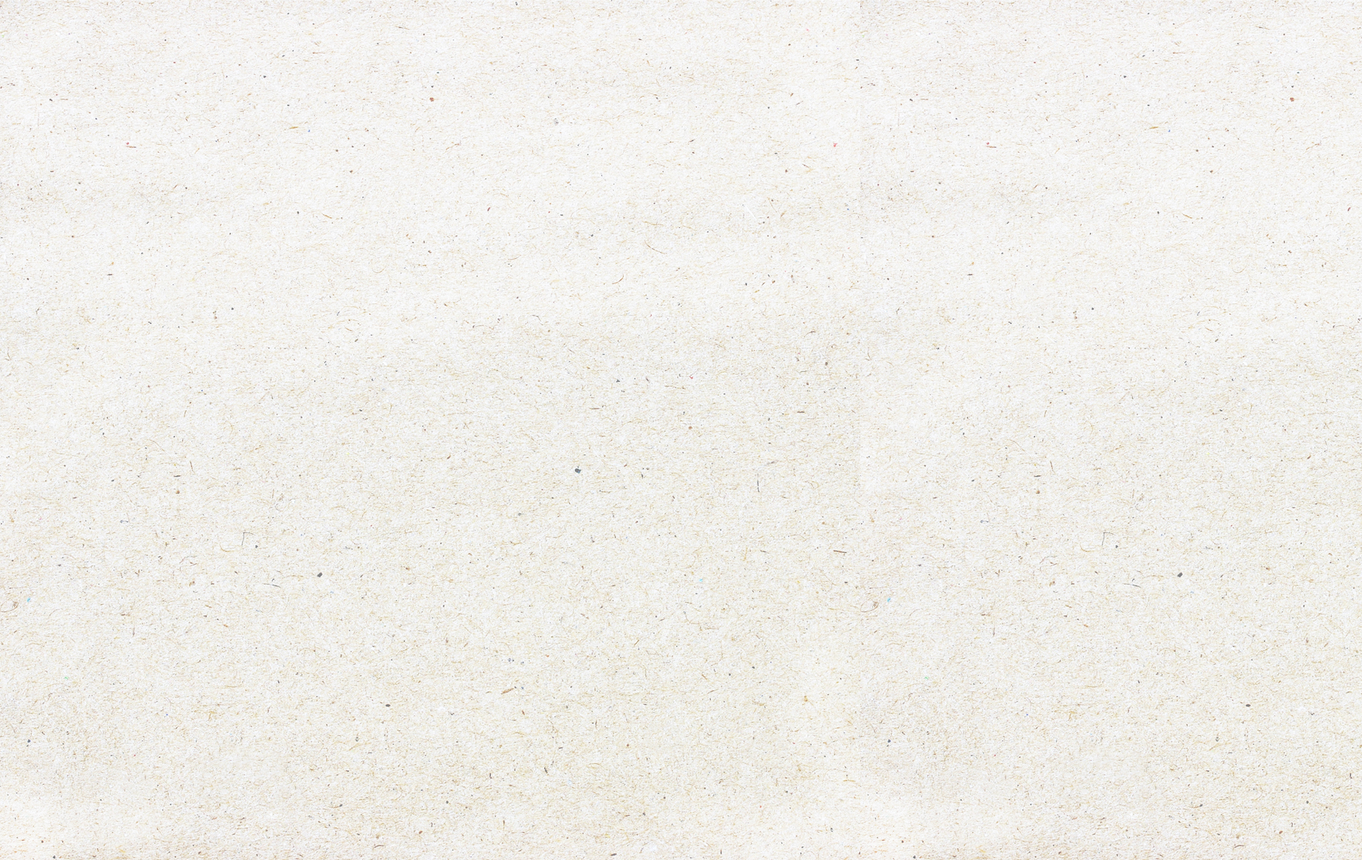
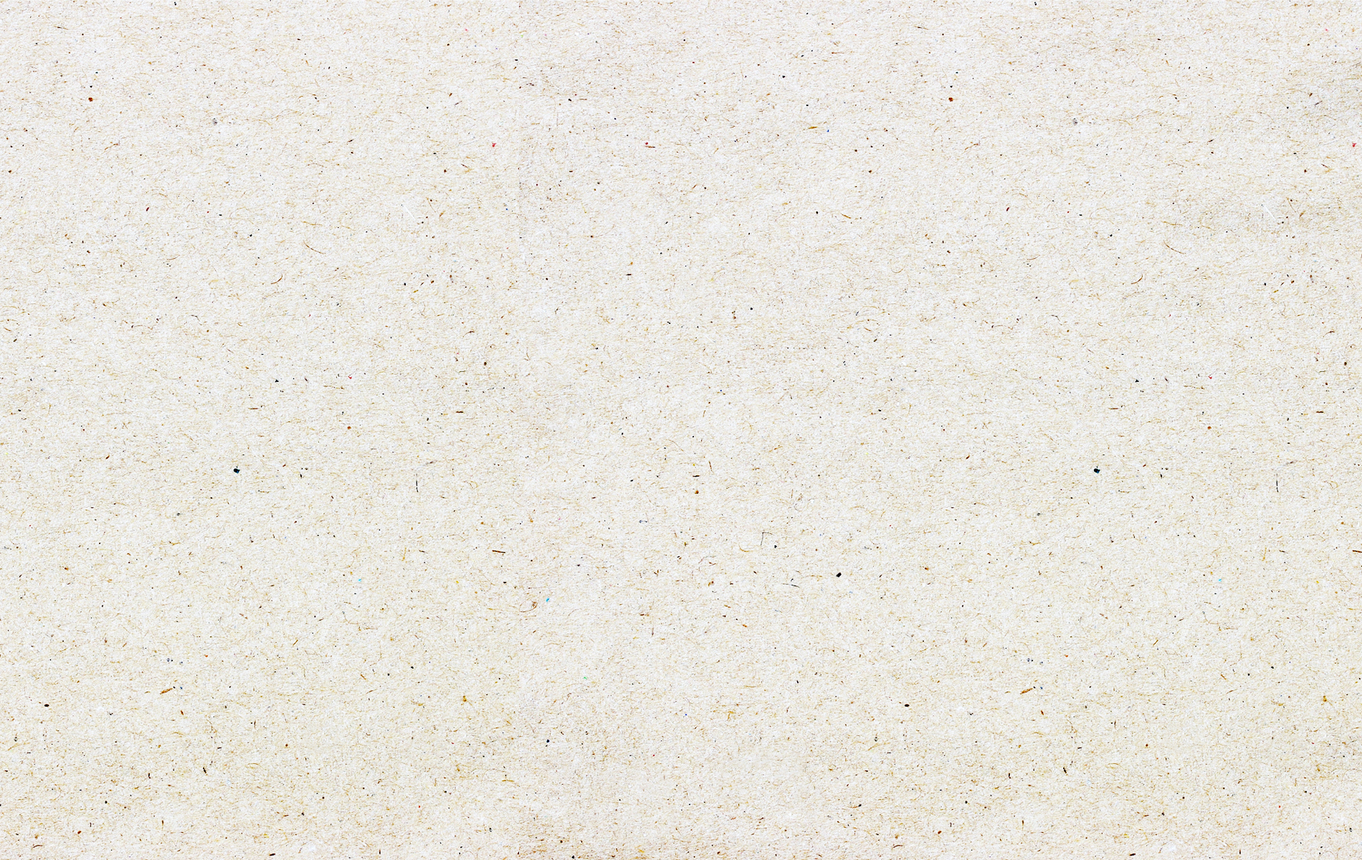
Fix finales 1.2

Changed region(s): [[0.0, 0.0, 1.0, 1.0]]

diff --git a/sectores.html b/sectores.html
@@ -216,7 +216,8 @@
       </div>
     </div>
 
-    <section class="service-single" style="padding-bottom: 0px">
+    <!-- Sectores Lista -->
+   <section class="service-single pq-bg-img-1" style="padding-bottom: 0px">
       <style>
         /* Forzamos a que la lista no tenga puntos predeterminados */
         ul.pq-list-check {
@@ -238,7 +239,7 @@
         }
       </style>
 
-      <div class="container">
+      <div class="container" style="position: relative; z-index: 1;">
         <div class="row">
           <h4 class="mb-5 text-center">
             EMPAQUES QUE SE ADAPTAN A CADA INDUSTRIA
@@ -372,7 +373,7 @@
             </div>
           </div>
 
-          <div class="col-xl-8 mt-5 mt-xl-0 pq-grey-bg p-4">
+          <div class="col-xl-8 mt-5 mt-xl-0 pq-grey-bg p-4" style="border-radius: 10px;">
             <div class="tab-content" id="sectoresTabContent">
               <div
                 class="tab-pane fade show active"
@@ -459,19 +460,19 @@
                     <ul class="pq-list-check">
                       <li>
                         <i
-                          class="ion-android-checkmark-circle text-primary me-2"
+                          class="ion-android-checkmark-circle me-2" style="color: #f18a00;"
                         ></i
                         >Productos agrícolas
                       </li>
                       <li>
                         <i
-                          class="ion-android-checkmark-circle text-primary me-2"
+                          class="ion-android-checkmark-circle me-2" style="color: #f18a00;"
                         ></i
                         >Alimentos procesados
                       </li>
                       <li>
                         <i
-                          class="ion-android-checkmark-circle text-primary me-2"
+                          class="ion-android-checkmark-circle me-2" style="color: #f18a00;"
                         ></i
                         >Distribución y comercialización
                       </li>
@@ -514,19 +515,19 @@
                     <ul class="pq-list-check">
                       <li>
                         <i
-                          class="ion-android-checkmark-circle text-primary me-2"
+                          class="ion-android-checkmark-circle me-2" style="color: #f18a00;"
                         ></i
                         >Empaque y transporte
                       </li>
                       <li>
                         <i
-                          class="ion-android-checkmark-circle text-primary me-2"
+                          class="ion-android-checkmark-circle me-2" style="color: #f18a00;"
                         ></i
                         >Presentación comercial
                       </li>
                       <li>
                         <i
-                          class="ion-android-checkmark-circle text-primary me-2"
+                          class="ion-android-checkmark-circle me-2" style="color: #f18a00;"
                         ></i
                         >Logística y exportación
                       </li>
@@ -568,19 +569,19 @@
                     <ul class="pq-list-check">
                       <li>
                         <i
-                          class="ion-android-checkmark-circle text-primary me-2"
+                          class="ion-android-checkmark-circle me-2" style="color: #f18a00;"
                         ></i
                         >Room service
                       </li>
                       <li>
                         <i
-                          class="ion-android-checkmark-circle text-primary me-2"
+                          class="ion-android-checkmark-circle me-2" style="color: #f18a00;"
                         ></i
                         >Eventos y catering
                       </li>
                       <li>
                         <i
-                          class="ion-android-checkmark-circle text-primary me-2"
+                          class="ion-android-checkmark-circle me-2" style="color: #f18a00;"
                         ></i
                         >Servicio de alimentos
                       </li>
@@ -622,19 +623,19 @@
                     <ul class="pq-list-check">
                       <li>
                         <i
-                          class="ion-android-checkmark-circle text-primary me-2"
+                          class="ion-android-checkmark-circle me-2" style="color: #f18a00;"
                         ></i
                         >Soluciones para cabina
                       </li>
                       <li>
                         <i
-                          class="ion-android-checkmark-circle text-primary me-2"
+                          class="ion-android-checkmark-circle me-2" style="color: #f18a00;"
                         ></i
                         >Operaciones a bordo
                       </li>
                       <li>
                         <i
-                          class="ion-android-checkmark-circle text-primary me-2"
+                          class="ion-android-checkmark-circle me-2" style="color: #f18a00;"
                         ></i
                         >Protocolos de servicio
                       </li>
@@ -676,19 +677,19 @@
                     <ul class="pq-list-check">
                       <li>
                         <i
-                          class="ion-android-checkmark-circle text-primary me-2"
+                          class="ion-android-checkmark-circle me-2" style="color: #f18a00;"
                         ></i
                         >Puntos de venta
                       </li>
                       <li>
                         <i
-                          class="ion-android-checkmark-circle text-primary me-2"
+                          class="ion-android-checkmark-circle me-2" style="color: #f18a00;"
                         ></i
                         >Artículos comerciales
                       </li>
                       <li>
                         <i
-                          class="ion-android-checkmark-circle text-primary me-2"
+                          class="ion-android-checkmark-circle me-2" style="color: #f18a00;"
                         ></i
                         >E-commerce
                       </li>
@@ -706,6 +707,7 @@
         </div>
       </div>
     </section>
+<!-- Sectores Lista -->
 
     <section class="service-single" style="padding-top: 30px; padding-bottom: 60px;">
       <div class="container">

diff --git a/index.html b/index.html
@@ -1844,7 +1844,7 @@
                       <img
                         decoding="async"
                         class="background img"
-                        src="images/slides/lamina.png"
+                        src="images/slides/lamina.jpg"
                         alt="lamina"
                       />
                     </div>
